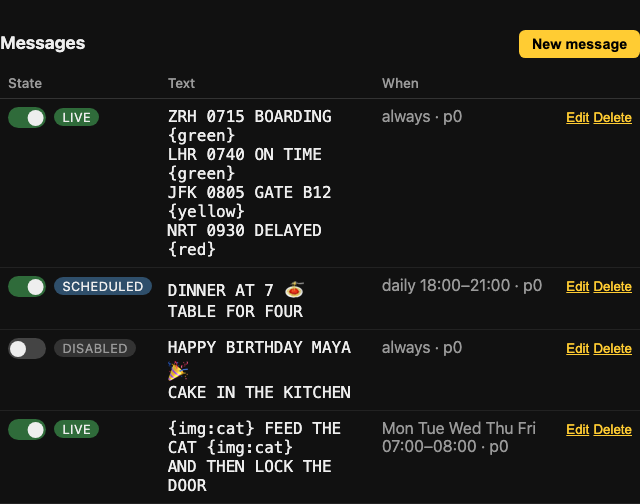
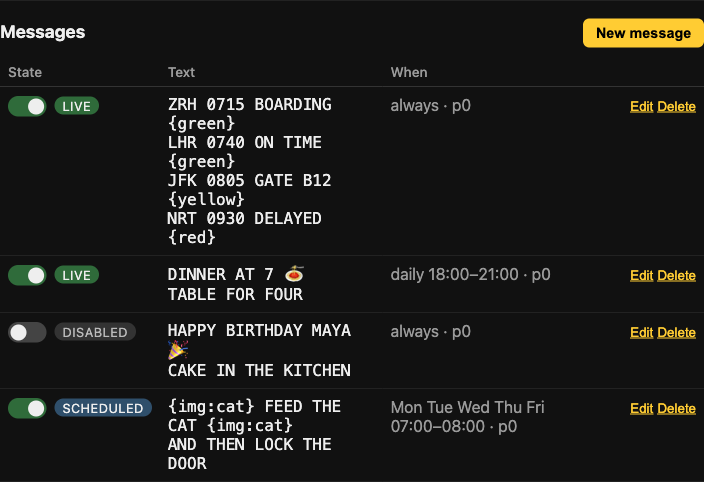
feat(settings): the desktop layout — two columns above 1100 px with the live card pinned beside every tab and the open form's preview under it; the README captures retaken (#123) (#151)
- the live card lives in a sticky aside: pinned on the right on a wide screen whatever tab
  shows; under the tabs at the top of the Board tab below 1100 px (off-stage on other tabs, so
  its frame keeps polling)
- the message form's preview block moves under the live card while the form is open on a wide
  screen, back into the form on close — one frame, never duplicated
- a sticky table header, fixed State and Actions columns, row hover
- settings-live/look/display/messages/form/images/phone retaken at 1280 (phone at 390); the
  README tour reads as tabs

diff --git a/app/static/js/settings.js b/app/static/js/settings.js
@@ -37,8 +37,11 @@
 
   // ---- tabs: six panels, hash-addressed (#messages), the last one remembered per browser.
   // Sections keep their ids inside the panels; a hash naming a section opens its tab and scrolls
-  // to it. The Board panel is never display:none'd — the live card is the page's heartbeat — it is
-  // moved off-stage instead, so its frame keeps polling and painting.
+  // to it. The live card sits in an aside: pinned beside every tab above 1100 px, shown under the
+  // Board tab below that and moved off-stage (never display:none — it is the page's heartbeat)
+  // while another tab shows.
+  const desktop = window.matchMedia("(min-width: 1100px)");
+  const side = $("#side");
   const TABS = ["board", "messages", "pictures", "guests", "boards", "setup"];
   const TAB_OF = { live: "board", look: "board", display: "board", backdrop: "board", flaps: "board", images: "pictures", calendar: "boards", addresses: "setup", token: "setup" };
   const tabButtons = TABS.map((t) => $(`#tab-${t}`));
@@ -59,15 +62,12 @@
       const btn = $(`#tab-${t}`);
       btn.setAttribute("aria-selected", String(on));
       btn.tabIndex = on ? 0 : -1;
-      const panel = $(`#panel-${t}`);
-      if (t === "board") {
-        panel.classList.toggle("offstage", !on); // keeps the live frame alive while another tab shows
-        panel.setAttribute("aria-hidden", String(!on));
-        panel.inert = !on;
-      } else {
-        panel.hidden = !on;
-      }
+      $(`#panel-${t}`).hidden = !on;
     }
+    const off = name !== "board" && !desktop.matches;
+    side.classList.toggle("offstage", off); // keeps the live frame alive while another tab shows
+    side.setAttribute("aria-hidden", String(off));
+    side.inert = off;
     try {
       localStorage.setItem("departureboard.tab", name);
     } catch {
@@ -102,6 +102,10 @@
     });
   });
   window.addEventListener("hashchange", () => openHash(location.hash, false));
+  desktop.addEventListener("change", () => {
+    showTab(currentTab);
+    placePreview();
+  });
   {
     let remembered = "";
     try {
@@ -426,10 +430,23 @@
     $("#repeat-hint").hidden = !timed;
   }
 
+  // The form's preview block: inside the form, or pinned under the live card while the form is
+  // open on a wide screen — one frame, moved, never duplicated.
+  function placePreview() {
+    const block = document.querySelector("#message-form .preview, #side .preview");
+    if (!block) return;
+    if (desktop.matches && !form.hidden) {
+      if (block.parentElement !== side) side.appendChild(block);
+    } else if (block.parentElement !== form) {
+      form.insertBefore(block, form.querySelector(".grid2"));
+    }
+  }
+
   function openForm(m, opener) {
     formOpener = opener || null;
     if (previewFrame && !previewFrame.getAttribute("src")) previewFrame.src = "/?embed&preview";
     form.hidden = false;
+    placePreview();
     $("#message-error").hidden = true;
     $("#message-form-title").textContent = m ? "Edit message" : "New message";
     form.id.value = m ? m.id : "";
@@ -451,6 +468,7 @@
 
   function closeForm() {
     form.hidden = true;
+    placePreview();
     if (formOpener && formOpener.isConnected) formOpener.focus();
     else focusRow(Number(form.id.value) || 0);
     formOpener = null;
@@ -481,6 +499,7 @@
         ? await api(`/api/messages/${id}`, { method: "PATCH", body })
         : await api("/api/messages", { method: "POST", body });
       form.hidden = true;
+      placePreview();
       toast(id ? "Saved." : "On the board.");
       await loadMessages();
       refreshLive();

diff --git a/app/static/css/base.css b/app/static/css/base.css
@@ -146,11 +146,30 @@ body { background: var(--bg); color: var(--fg); font-family: var(--font); }
 .page .tabs [role="tab"]:hover { color: var(--fg); }
 .page .tabs .badge { margin-left: .35rem; vertical-align: middle; }
 .page .tabs .tab-dot { color: var(--accent); font-size: .7em; vertical-align: middle; }
+.page .layout { display: flex; flex-direction: column; }
+.page .side { order: -1; } /* one column: the live card under the tabs, above the Board panel */
+.page .side .preview { margin-top: 1rem; }
+.page .side .preview .screen { border: 1px solid #2a2a2a; }
+.page .side .preview::before { content: "Preview"; display: block; margin: 0 0 .35rem; font-weight: 600; font-size: 1rem; }
 .page .panel { outline: none; }
 .page .panel:focus-visible { outline: 2px solid var(--accent); outline-offset: 4px; border-radius: .4rem; }
 .page .panel > section:first-child > h2, .page .panel > section:first-child > .row > h2, .page #panel-setup > h2 { margin-top: 1.25rem; }
 .page .panel-intro { margin: 1rem 0 0; }
-.page .offstage { position: absolute; left: -300vw; top: 0; width: min(42rem, 100vw - 2rem); pointer-events: none; }
+@media (max-width: 1099.98px) { .page .side.offstage { position: absolute; left: -300vw; top: 0; width: min(42rem, 100vw - 2rem); pointer-events: none; } }
+/* desktop: two columns above 1100 px — the tab's content on the left, the live card (and the open
+   form's preview) pinned on the right; a sticky table header; row hover */
+@media (min-width: 1100px) {
+  .page .narrow { max-width: 74rem; }
+  .page .layout { display: grid; grid-template-columns: minmax(0, 1fr) 26rem; column-gap: 2rem; align-items: start; }
+  .page .main-col { min-width: 0; }
+  .page .side { order: 0; position: sticky; top: 1rem; }
+  .page .side #live h2 { margin-top: 1.25rem; }
+  .page table.list thead th { position: sticky; top: 0; background: var(--bg); z-index: 1; }
+  .page table.list tbody tr:hover td { background: #161616; }
+  .page table.list td.state { width: 9rem; }
+  .page table.list td.actions { width: 8rem; }
+  .page .months { gap: 1.5rem; }
+}
 @media (max-width: 36rem) { .page .tabs [role="tab"] { padding: .55rem .6rem; font-size: .9rem; } }
 /* the Boards strip under the header: this board · dot · meta | Switch… Save Save as… ⋯ */
 .page #boards { margin: 1rem 0 0; padding: .6rem .9rem; background: #1a1a1a; border: 1px solid #2a2a2a; border-radius: .6rem; }

diff --git a/app/templates/settings.html b/app/templates/settings.html
@@ -37,17 +37,10 @@
     <button type="button" role="tab" id="tab-setup" aria-controls="panel-setup" aria-selected="false" tabindex="-1">Setup</button>
   </div>
 
-  <div id="panel-board" class="panel" role="tabpanel" aria-labelledby="tab-board" tabindex="0">
-  <section id="live" aria-labelledby="live-heading">
-    <div class="row">
-      <h2 id="live-heading">On the TV</h2>
-      <button type="button" class="small" id="cast" aria-pressed="false"><span class="label">Cast to TV</span></button>
-    </div>
-    <div class="screen" aria-hidden="true"><iframe id="live-board" src="/?embed" title="The board, live" tabindex="-1"></iframe></div>
-    <p id="live-now" class="muted">Waiting for the board…</p>
-    <p id="cast-note" class="muted" role="status" hidden></p>
-  </section>
+  <div class="layout">
+  <div class="main-col">
 
+  <div id="panel-board" class="panel" role="tabpanel" aria-labelledby="tab-board" tabindex="0">
   <section id="look" aria-labelledby="look-heading">
     <h2 id="look-heading">Look &amp; feel</h2>
     <p class="muted">Pick a theme — the TV follows on its next poll, nothing to save.</p>
@@ -297,6 +290,19 @@
     <details><summary>Show token</summary><pre class="token">{{ token }}</pre></details>
   </section>
     <p class="muted">Post from a script, a calendar or an agent: <a href="/integrate">the integrate page</a> has every call pre-filled; <a href="/docs">the API docs</a> list them all.</p>
+  </div>
+  </div>
+  <aside id="side" class="side" aria-label="The board, live">
+  <section id="live" aria-labelledby="live-heading">
+    <div class="row">
+      <h2 id="live-heading">On the TV</h2>
+      <button type="button" class="small" id="cast" aria-pressed="false"><span class="label">Cast to TV</span></button>
+    </div>
+    <div class="screen" aria-hidden="true"><iframe id="live-board" src="/?embed" title="The board, live" tabindex="-1"></iframe></div>
+    <p id="live-now" class="muted">Waiting for the board…</p>
+    <p id="cast-note" class="muted" role="status" hidden></p>
+  </section>
+  </aside>
   </div>
 
   <dialog id="cast-help" aria-labelledby="cast-help-title">

diff --git a/tests/test_auth.py b/tests/test_auth.py
@@ -95,6 +95,8 @@ def test_settings_page_panels(client, token):
         'id="panel-setup"',
         'id="token"',
         'aria-controls="panel-guests"',
+        'id="side"',
+        'class="layout"',
         'id="qr-board"',
     ):
         assert needle in r.text, needle
@@ -250,8 +252,12 @@ def test_every_section_sits_in_its_tab_panel(client, token):
         pos = html.index(f'<section id="{section_id}"')
         return [name for name, start in bounds if start < pos][-1]
 
+    live = html.index('<section id="live"')
+    assert html.index('<aside id="side"') < live < html.index("</aside>"), (
+        "the live card is the aside"
+    )
+    assert live > html.index('<div id="panel-setup"'), "after every panel in the DOM; CSS orders it"
     for section, tab in {
-        "live": "board",
         "look": "board",
         "display": "board",
         "messages": "messages",

diff --git a/README.md b/README.md
@@ -62,7 +62,10 @@ or `uv sync && uv run fastapi dev app/main.py` for a dev server on port 8000.
 ## The settings page
 
 Everything on the board comes from `/settings`: one page, on a laptop or a phone, signed in with
-the token the first boot printed.
+the token the first boot printed. Six tabs — **Board**, **Messages**, **Pictures**, **Guests**,
+**Boards**, **Setup** — and on a wide screen the board as the TV sees it stays pinned on the right
+whatever tab you are on, so a slider, a new message or an approval shows its effect without
+scrolling.
 
 <img src="docs/media/settings-boards.png" alt="The Boards strip: This board: Party, two messages, saved today; Switch…, Save, Save as… and a ⋯ menu" width="800">
 
@@ -77,7 +80,7 @@ replaces.
 
 <img src="docs/media/settings-calendar.png" alt="The Calendar section: two month grids with planned days tinted by board and today outlined, the plan as a list, a form to plan a board, the everyday board" width="800">
 
-**Calendar.** Plan the boards ahead instead of tending the board every day: pick a saved board
+**Calendar.** On the **Boards** tab: plan the boards ahead instead of tending the board every day — pick a saved board
 and a day or a range — *Halloween* on the 31st, *Christmas* from the 20th to the 26th — and the
 board comes up by itself at midnight, the board's time. The live board is saved back into its own
 file first, so edits made on the Halloween board are in the Halloween file the next morning. Two
@@ -87,20 +90,22 @@ is a file beside the saved boards; [docs/calendar.md](docs/calendar.md) has the 
 
 <img src="docs/media/settings-live.png" alt="The top of the settings page: the board as the TV shows it, a Cast button, and the line naming the live message" width="800">
 
-**On the TV.** The page opens with the board as the TV sees it, live, and the message that is
-showing now. **Cast to TV** sends the board to a Chromecast or Google TV from Chrome (with the
+**On the TV.** The live card shows the board as the TV sees it and names the message that is
+showing now — at the top of the **Board** tab on a phone, pinned beside every tab on a desktop. **Cast to TV** sends the board to a Chromecast or Google TV from Chrome (with the
 board on `https://`; otherwise the button explains the two ways). Casting is new and we have one
 TV to try it on: tell us how it holds up for you in [#79](https://github.com/cmldexter/DepartureBoard/issues/79).
 
 <img src="docs/media/settings-messages.png" alt="The messages table: a switch and a state badge, the text, when it shows, Edit and Delete" width="800">
 
-**Messages.** One row each: a switch that turns the message off and on without opening it, its
-state (live, scheduled, expired, disabled), the text, when it shows, Edit and Delete.
+**Messages.** The **Messages** tab: one row each, with a switch that turns the message off and on
+without opening it, its state (live, scheduled, expired, disabled), the text, when it shows, Edit
+and Delete.
 
 <img src="docs/media/settings-form.png" alt="The edit form with the preview rendered as the board, the schedule fields and the capacity line" width="800">
 
 **Writing one.** The preview is the board itself: your theme, the chips, emoji and pictures,
-and a line that says how many cells the message uses and what cannot be shown. One line per
+and a line that says how many cells the message uses and what cannot be shown — on a desktop it
+sits under the live card on the right while you type. One line per
 row, or let it wrap. Three kinds of schedule: a window from one date and time to another, every
 day between two times, or chosen weekdays between two times (a window that ends before it starts
 crosses midnight). When several messages are live the highest priority wins and equals take
@@ -113,7 +118,7 @@ message has left.
 
 <img src="docs/media/settings-display.png" alt="The display form: preset, animation, sound, idle text, poll and rotate intervals, timer ring" width="800">
 
-**Look & feel.** Four theme swatches under the live card; click one and the TV follows on its
+**Look & feel.** On the **Board** tab: four theme swatches; click one and the TV follows on its
 next poll, nothing to save. Below them, *Behind the board*: a picture under the frame — one of
 the four that ship, or a poster snip uploaded right there — with blur and dim sliders the live
 card follows as they move. *Save* sends it to the TV; *Clear* takes it off. Then *The flaps*:
@@ -127,7 +132,7 @@ grid; *Classic* puts them back.
 
 <img src="docs/media/board-flaps.png" alt="The same banner across nine flaps: Classic on the left with rounded corners, gaps and split lines; Picture mode on the right with square corners, a hairline gap and no split line" width="800">
 
-**Display.** The preset for your TV size (Compact 6 × 22, Large 8 × 28, or your own), the
+**Display.** Also on the **Board** tab: the preset for your TV size (Compact 6 × 22, Large 8 × 28, or your own), the
 animation pace from instant to the mechanical click, sound and volume, the idle text
 for when nothing is live, how often the TV polls, the default time each message gets when
 several take turns, and whether the timer ring shows (off, only for messages with their own
@@ -135,7 +140,7 @@ time, or for every message taking turns).
 
 <img src="docs/media/settings-images.png" alt="The images panel: upload a picture, get a token, give it a size in cells" width="800">
 
-**QR codes.** Type a link or a line of text on the Images panel and *Make QR*: the server draws the
+**QR codes.** On the **Pictures** tab, type a link or a line of text and *Make QR*: the server draws the
 code as a picture with the same token as any upload, and *Scan to open this board* fills in the
 board's own address. A code is *drawn whole* over its block — no gap or split line through it — so
 a phone reads it from the sofa: 4 × 3 cells on Compact, 5 × 4 on Large. Any picture can be drawn
@@ -144,7 +149,7 @@ contrast rule and three recipes (a menu link, a Wi-Fi string, a guest link).
 
 <img src="docs/media/board-qr.png" alt="The board: SCAN FOR THE MENU, a QR code drawn whole across a 4 × 3 block, DRINKS AT NINE" width="800">
 
-**Pictures.** Upload a PNG, JPEG, GIF or WebP (up to 5 MB) and it becomes a token like `{img:cat}`. Give the
+**Pictures.** The **Pictures** tab: upload a PNG, JPEG, GIF or WebP (up to 5 MB) and it becomes a token like `{img:cat}`. Give the
 picture a size in cells on the panel — a wide banner reads best across a row — and it keeps its
 shape inside that block (or fills it, or stretches, your choice). The panel suggests the sizes
 that keep the shape from the file's own pixel size. In a message the picture takes its block,
@@ -152,7 +157,7 @@ pushing the lines beneath it down; `{img:cat@9x1}` sizes it for one message only
 
 <img src="docs/media/settings-guests.png" alt="The Guests section: the guest link with Copy, Rotate and Turn off, Put the QR on the board, the Auto-approve switch, a post waiting with its thumbnail and Approve and Reject, and a post on the board" width="800">
 
-**Guests.** A link for phones, off until you make it. Whoever opens it gets one small page — a
+**Guests.** The **Guests** tab: a link for phones, off until you make it. Whoever opens it gets one small page — a
 line, a photo, a first name, *Post* — and nothing else: no messages, no settings, and a wrong link
 is a plain 404. Posts wait in this section with a thumbnail, the line and the name. *Approve* turns
 one into an ordinary message — the words, the photo sized to the rows left, the name last — that
@@ -167,12 +172,12 @@ ends the evening. [docs/guests.md](docs/guests.md) is the whole safety story.
 
 <img src="docs/media/board-guest.png" alt="The board showing a guest's post: HAPPY BIRTHDAY NICK, the photo across eight by four flaps, and - ANA" width="800">
 
-**The token.** At the bottom of the page, generated on first boot (or set with
+**The token.** On the **Setup** tab with your board's addresses, generated on first boot (or set with
 `DEPARTUREBOARD_API_TOKEN`). The TV needs none; the settings page and every write to the API do.
 
-<img src="docs/media/settings-phone.png" alt="The messages table on a phone" width="300">
+<img src="docs/media/settings-phone.png" alt="The Messages tab on a phone: the tab row, then the table" width="300">
 
-The page works on a phone. For the TV side, read [docs/tv-setup.md](docs/tv-setup.md); to
+The page works on a phone, one tab at a time. For the TV side, read [docs/tv-setup.md](docs/tv-setup.md); to
 post from a script, a calendar or an agent, open `/integrate` (pictured below).
 
 ## Themes

diff --git a/CHANGELOG.md b/CHANGELOG.md
@@ -7,7 +7,14 @@ and a container image `ghcr.io/cmldexter/departureboard:X.Y.Z`.
 
 ## [Unreleased]
 
-_Nothing yet._
+### Added
+
+- **The desktop layout** (#123). Above 1100 px the settings page is two columns: the tab's content
+  on the left and the live card pinned on the right whatever tab you are on — with the message
+  form's preview under it while you type, so a slider, a message or an approval shows its effect
+  without scrolling. The messages table gets a sticky header, fixed columns and row hover. One
+  column again below 1100 px, with the live card at the top of the Board tab as before. The README's
+  settings captures retaken; the tour reads as tabs.
 
 ## [0.4.0] — 2026-10-25
 
